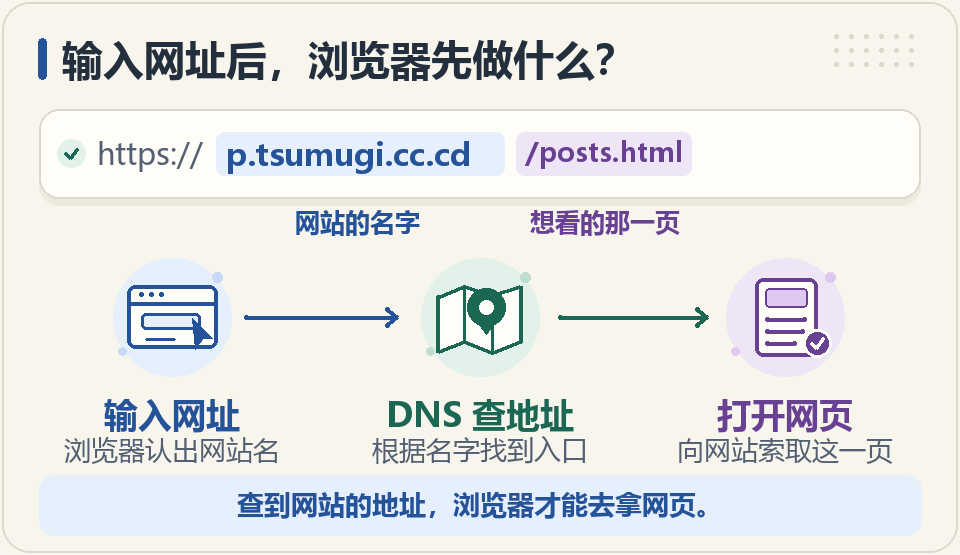
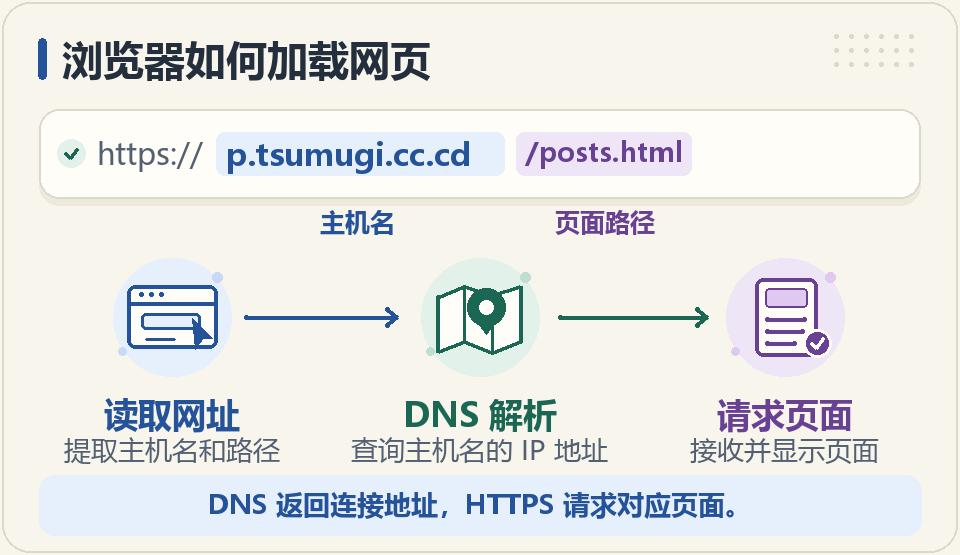
Publish blog post: cloudflare-blog-from-dns

diff --git a/posts/cloudflare-blog-from-dns.html b/posts/cloudflare-blog-from-dns.html
@@ -3,8 +3,8 @@
 <head>
   <meta charset="utf-8">
   <meta name="viewport" content="width=device-width, initial-scale=1">
-  <meta name="description" content="用我的个人博客讲清楚 DNS、GitHub Pages、Cloudflare Workers 与 D1，并记录从域名委派到部署动态网站的步骤。">
-  <title>建站学习日记：从 DNS 到 Cloudflare Workers + D1 | tsumugi.</title>
+  <meta name="description" content="面向首次建站的读者，解释域名解析、静态托管和服务端渲染，并演示如何用 GitHub Pages、Cloudflare Workers 与 D1 搭建个人博客。">
+  <title>个人博客搭建教程：从 DNS 到 Cloudflare Workers + D1 | tsumugi.</title>
   <link rel="stylesheet" href="/style.css?v=20261119-themes">
   <link rel="alternate" type="application/rss+xml" title="tsumugi 博客" href="/feed.xml">
   <link rel="icon" href="/favicon.png" type="image/png">
@@ -30,57 +30,57 @@
   <a class="back-link" href="/posts.html">← 全部文章</a>
   <header class="article-heading">
     <time class="post-date" datetime="2026-11-19">2026-11-19</time>
-    <h1 class="article-title">建站学习日记：从 DNS 到 Cloudflare Workers + D1</h1>
+    <h1 class="article-title">个人博客搭建教程：从 DNS 到 Cloudflare Workers + D1</h1>
   </header>
   <div class="reading-grid">
     <article class="reading-article">
       <div class="article-content">
-        <p>刚开始搭这个博客时，我想先弄明白一件事：拿到一个域名以后，网页该放在哪里，别人又是怎么找到它的？我先用 GitHub Pages 让一张网页上线，后来才加上 Cloudflare 和数据库。下面按我的建站顺序，把每一件事拆开说。</p>
-        <h2>输入网址，浏览器先去哪里找？</h2>
-        <p>以 <code>https://p.tsumugi.cc.cd/posts.html</code> 为例。<code>p.tsumugi.cc.cd</code> 是网站的名字，<code>/posts.html</code> 是我想看的那一页。就像去图书馆要先找地址，再去找书，浏览器也得先找到网站，再向它要页面。</p>
-        <p><strong>DNS 就是浏览器用来查地址的一套系统。</strong> 平时输入的是好记的名字，电脑连接网站时要用网络地址。查到地址以后，浏览器再用 HTTPS 建立连接，把想看的页面告诉网站。 <a href="https://www.cloudflare.com/learning/dns/what-is-dns/">DNS 查询的官方图解</a></p>
+        <p>搭建个人博客可以从一个 HTML 文件开始。先用 GitHub Pages 发布静态页面，再接入自定义域名。需要按关键词搜索正文或从数据库读取文章时，可以增加由 Cloudflare Workers 和 D1 提供的动态版本。两个版本可以使用同一域名下的不同地址。</p>
+        <h2>域名、DNS 与网页请求</h2>
+        <p>以 <code>https://p.tsumugi.cc.cd/posts.html</code> 为例，<code>p.tsumugi.cc.cd</code> 是主机名，<code>/posts.html</code> 是要访问的页面路径，<code>https</code> 指定了浏览器与网站通信的协议。</p>
+        <p><strong>DNS（域名系统）负责把主机名解析为浏览器可连接的 IP 地址。</strong> 浏览器取得地址后，建立 HTTPS 连接，再向网站请求 <code>/posts.html</code>。网站收到请求后，根据路径返回相应页面。DNS 查询使用主机名，页面路径随后由网站处理。 <a href="https://www.cloudflare.com/learning/dns/what-is-dns/">DNS 查询图解</a></p>
         <figure style="margin: 1.5em 0;">
-          <img src="/images/cloudflare-blog/dns-lookup.png" width="960" height="555" loading="lazy" decoding="async" alt="网址分成网站的名字 p.tsumugi.cc.cd 和想看的页面 /posts.html。浏览器先通过 DNS 查地址，再向网站索取页面。">
-          <figcaption>图 1　DNS 帮浏览器找到网站，网站负责把页面发回来。<a href="/images/cloudflare-blog/dns-lookup.png" aria-label="查看 DNS 解析插画大图">查看大图</a></figcaption>
+          <img src="/images/cloudflare-blog/dns-lookup.png?v=tutorial" width="960" height="555" loading="lazy" decoding="async" alt="浏览器读取网址中的主机名，通过 DNS 查到 IP 地址，再通过 HTTPS 请求指定路径的页面。">
+          <figcaption>图 1　DNS 解析先确定连接地址，HTTPS 请求再指定要访问的页面。<a href="/images/cloudflare-blog/dns-lookup.png?v=tutorial" aria-label="查看 DNS 解析插画大图">查看大图</a></figcaption>
         </figure>
-        <p>打开域名管理页面，会看到几种叫做「DNS 记录」的设置。我是这样记的：</p>
+        <p>在域名管理面板中，常用的 DNS 记录如下。</p>
         <ul>
-        <li><strong>A / AAAA</strong> 像写下门牌号码，分别填 IPv4 和 IPv6 两种网络地址。</li>
-        <li><strong>CNAME</strong> 像起个别名。查到这个别名时，会继续找它指向的那个名字的地址。</li>
-        <li><strong>TXT</strong> 是一张文字便条。比如 GitHub 可以让你贴上它给的文字，来确认你有权管理这个域名。</li>
-        <li><strong>NS</strong> 负责指路，告诉大家该去问哪几台服务器，才能拿到这个域名的正式答案。</li>
+        <li><strong>A / AAAA</strong> 将主机名分别指向 IPv4 或 IPv6 地址。</li>
+        <li><strong>CNAME</strong> 将一个主机名设为另一个主机名的别名。解析时会继续查询目标主机名。</li>
+        <li><strong>TXT</strong> 保存文本。GitHub Pages 可通过指定的 TXT 记录验证域名所有权。</li>
+        <li><strong>NS</strong> 指定哪些名称服务器负责回答某个域名的 DNS 查询。这些服务器称为该域名的权威 DNS 服务器。</li>
         </ul>
         <p><a href="https://developers.cloudflare.com/dns/manage-dns-records/reference/dns-record-types/">Cloudflare 的 DNS 记录说明</a></p>
-        <h2>先让一张网页上线</h2>
-        <p>拿到域名只是有了网站的名字，接下来还要给网页找个能放在网上的地方。我先在 GitHub 建了一个仓库，也就是存放项目文件的地方，再交给 <strong>GitHub Pages</strong> 把文件发布成网站。</p>
+        <h2>使用 GitHub Pages 发布静态站</h2>
+        <p>GitHub 仓库保存项目文件，GitHub Pages 负责将指定的文件发布为网站。这个阶段的页面在发布时已准备好，访问时由 Pages 直接返回，因此称为<strong>静态网站</strong>。</p>
         <ol>
-        <li>在自己的 GitHub 账号下建一个公开仓库，添加 <code>index.html</code>。打开网站首页时，GitHub Pages 会把它当作入口。第一次试可以只写一行 <code>&lt;h1&gt;你好，这是我的博客&lt;/h1&gt;</code>。</li>
-        <li>在仓库的 <strong>Settings → Pages</strong> 里选择 <strong>Deploy from a branch</strong>，选存放这个文件的分支。如果文件在仓库最外层，目录就选 <strong>/(root)</strong>，然后保存。</li>
-        <li>发布完成后，点 Pages 页面里的 <strong>Visit site</strong>。用 GitHub 给的地址就能先看到网页，自己的域名可以稍后再接。</li>
+        <li>在 GitHub 创建一个公开仓库，在仓库根目录新增 <code>index.html</code>。这个文件会作为首页，初次验证可以只放一个标题，例如 <code>&lt;h1&gt;个人博客首页&lt;/h1&gt;</code>。</li>
+        <li>在仓库的 <strong>Settings → Pages</strong> 中选择 <strong>Deploy from a branch</strong>，选中存放 <code>index.html</code> 的分支。如果文件位于仓库根目录，目录选择 <strong>/(root)</strong>，然后保存。</li>
+        <li>发布完成后，在 Pages 设置中点击 <strong>Visit site</strong>。先用 GitHub 提供的地址确认首页可以打开，再配置自定义域名。</li>
         </ol>
-        <p>这个阶段的博客是<strong>静态站</strong>。写好的网页文件已经放在 GitHub Pages 上，有人来访问时，Pages 就把文件交给对方。 <a href="https://docs.github.com/en/pages/getting-started-with-github-pages/creating-a-github-pages-site">GitHub Pages 建站步骤</a></p>
-        <h2>把 DNS 交给 Cloudflare 管</h2>
-        <p>我是从 DNSHE 拿到 <code>tsumugi.cc.cd</code> 这个免费子域名的。后来我让 Cloudflare 帮忙回答这个域名的 DNS 查询。这一步叫<strong>修改 NS 委派</strong>，意思是把「这个域名去哪里查」换成 Cloudflare 给出的服务器。网页还是可以放在 GitHub Pages。</p>
+        <p><a href="https://docs.github.com/en/pages/getting-started-with-github-pages/creating-a-github-pages-site">GitHub Pages 建站步骤</a></p>
+        <h2>将域名接入 Cloudflare DNS</h2>
+        <p>本博客使用 DNSHE 提供的免费子域名 <code>tsumugi.cc.cd</code>，并将这个域名的 DNS 查询委派给 Cloudflare。<strong>NS 委派</strong>决定由谁提供 DNS 记录。域名平台负责维持委派，Cloudflare 根据记录提供解析结果，网页仍可由 GitHub Pages 托管。</p>
         <ol>
-        <li><strong>在 Cloudflare 添加自己的域名。</strong> 如果已经有网站或域名邮箱，先在 Cloudflare 把仍在用的 DNS 记录准备好。</li>
-        <li><strong>把 Cloudflare 分配的名称服务器填回域名平台。</strong> 我的入口在 DNSHE。你用的是自己购买的域名，就到注册商那里找「名称服务器」。如果拿的是免费子域名，要看平台是否支持把它委派出去，以及 Cloudflare 是否支持添加该域名。</li>
-        <li><strong>等 Cloudflare 显示 Active（已激活）。</strong> 之后，这个域名的 DNS 记录就在 Cloudflare 里改。DNS 的旧回答可能在不同网络上缓存一段时间，所以新设置未必同时生效。</li>
+        <li><strong>在 Cloudflare 添加域名。</strong> 如果已有网站或域名邮箱，先核对现用的 DNS 记录，将仍需使用的记录配置到 Cloudflare。</li>
+        <li><strong>在域名平台更新名称服务器。</strong> 将 Cloudflare 分配的名称服务器填入注册商或上级域名提供方的管理面板。使用免费子域名时，域名提供方需支持 NS 委派，Cloudflare 也需支持添加该域名。</li>
+        <li><strong>等待区域激活。</strong> Cloudflare 显示 <strong>Active</strong> 后，在 Cloudflare 管理该域名的 DNS 记录。各地解析器的缓存过期时间可能不同，因此旧记录还可能被使用一段时间。</li>
         </ol>
-        <p>如果想给静态站也用自己的域名，可以先用 GitHub 提供的 TXT 记录验证所有权，然后在 Pages 设置里填自定义域名，最后按 GitHub 的说明添加对应的访问记录。我把主站的记录保留给 GitHub Pages，另外用一个带 <code>p.</code> 的名字测试动态版。 <a href="https://developers.cloudflare.com/dns/zone-setups/full-setup/setup/">Cloudflare 接管 DNS</a> · <a href="https://docs.github.com/en/pages/configuring-a-custom-domain-for-your-github-pages-site/managing-a-custom-domain-for-your-github-pages-site">GitHub Pages 自定义域名</a></p>
-        <h2>让博客从数据库里取文章</h2>
-        <p>静态站已经能读文章了。后来我想让博客按关键词查正文，就加了两样东西。<strong>Worker</strong> 是 Cloudflare 帮我运行的一小段后端程序，负责接收访问和组织回复。<strong>D1</strong> 是放文章的数据库。可以把我的文章表想成一张表格，每一行存一篇文章的标题、日期和正文。接上以后，读者打开一篇文章，Worker 就去 D1 找到正文，再拼成网页发回去。</p>
+        <p>为 GitHub Pages 绑定自定义域名时，先添加 GitHub 提供的 TXT 验证记录，再到 Pages 设置中填写自定义域名，最后按 GitHub 的说明添加用于访问的 DNS 记录。本博客将主域名配置给 GitHub Pages，并使用另一个子域名测试动态版本。 <a href="https://developers.cloudflare.com/dns/zone-setups/full-setup/setup/">Cloudflare 接管 DNS</a> · <a href="https://docs.github.com/en/pages/configuring-a-custom-domain-for-your-github-pages-site/managing-a-custom-domain-for-your-github-pages-site">GitHub Pages 自定义域名</a></p>
+        <h2>部署 Worker 并绑定 D1</h2>
+        <p><strong>Worker</strong> 是运行在 Cloudflare 上的后端程序，负责处理浏览器的请求。<strong>D1</strong> 是数据库，可以把文章数据组织成一张表，每行对应一篇文章，包含标题、日期和正文。读者访问动态站时，Worker 根据请求查询 D1，可用查到的内容生成页面或返回搜索结果。</p>
         <ol>
-        <li><strong>先让 Worker 跑起来。</strong> 在 Cloudflare 的 <strong>Workers &amp; Pages</strong> 选 <strong>Create application</strong>，从一个简单模板开始。点 <strong>Deploy</strong>，也就是把程序放到 Cloudflare 上运行。用它给的 <code>workers.dev</code> 地址，先确认浏览器能打开。</li>
-        <li><strong>准备一个 D1 数据库。</strong> 在 Cloudflare 的 <strong>D1 SQL database</strong> 创建数据库。第一次可以只放一个标题，方便确认程序真的能读到它。</li>
-        <li><strong>把 Worker 和 D1 连起来。</strong> 打开 Worker 的 <strong>Bindings → Add binding</strong>，选 <strong>D1 database</strong> 和刚建好的数据库，把变量名设为 <code>DB</code>。这一步也叫「绑定」：Worker 之后用 <code>env.DB</code> 就能访问这个数据库。</li>
+        <li><strong>创建并部署 Worker。</strong> 在 Cloudflare 的 <strong>Workers &amp; Pages</strong> 中选择 <strong>Create application</strong>，从简单模板开始。点击 <strong>Deploy</strong> 后，用 Cloudflare 提供的 <code>workers.dev</code> 地址确认程序可以访问。</li>
+        <li><strong>创建 D1 数据库。</strong> 在 Cloudflare 的 <strong>D1 SQL database</strong> 中创建数据库。验证连接时，先插入一行示例数据即可。</li>
+        <li><strong>添加 D1 绑定。</strong> 打开 Worker 的 <strong>Bindings → Add binding</strong>，选择 <strong>D1 database</strong> 和刚建好的数据库，将变量名设为 <code>DB</code>。绑定为 Worker 提供数据库访问接口，代码可以通过 <code>env.DB</code> 发起查询。</li>
         </ol>
         <p><a href="https://developers.cloudflare.com/workers/get-started/dashboard/">在控制台创建 Worker</a> · <a href="https://developers.cloudflare.com/d1/get-started/">D1 入门步骤</a></p>
         <details>
-          <summary>动手试一下，让 Worker 读出一篇文章的标题</summary>
-          <p>打开刚建好的练习数据库，在 <strong>Console</strong> 执行下面两行。SQL 是和数据库说话的语言，第一行建表，第二行放入一个标题。</p>
+          <summary>练习：从 D1 读取一篇文章的标题</summary>
+          <p>打开练习数据库，在 <strong>Console</strong> 执行两条 SQL 语句。SQL 用于操作数据库。第一条创建文章表，第二条插入一行示例数据。</p>
           <pre><code>CREATE TABLE posts (id INTEGER PRIMARY KEY, title TEXT);
         INSERT INTO posts (id, title) VALUES (1, '我的第一篇博客');</code></pre>
-          <p>在练习用 Worker 的代码编辑器里使用下面这段代码，再点 <strong>Deploy</strong>。<code>SELECT</code> 的意思是「取出数据」。打开测试地址，应该会看到「我的第一篇博客」。</p>
+          <p>在练习用 Worker 的代码编辑器中输入以下代码，点击 <strong>Deploy</strong>。<code>SELECT</code> 按文章编号查询标题，浏览器会收到纯文本「我的第一篇博客」。</p>
           <pre><code>export default {
           async fetch(request, env) {
             const post = await env.DB
@@ -92,25 +92,24 @@
           },
         };</code></pre>
         </details>
-        <h2>给动态版加一个自己的地址</h2>
-        <p>在 <code>workers.dev</code> 上确认 Worker 能打开后，我给它绑了 <code>p.tsumugi.cc.cd</code>。操作入口在 Worker 的 <strong>Settings → Domains &amp; Routes → Add → Custom Domain</strong>。域名在 Cloudflare 激活后，就能在这里填一个可用的子域名。Cloudflare 会创建对应记录，并办好 HTTPS 证书。 <a href="https://developers.cloudflare.com/workers/configuration/routing/custom-domains/">给 Worker 绑定自定义域名</a></p>
+        <h2>为动态站绑定自定义域名</h2>
+        <p>确认 <code>workers.dev</code> 地址可用后，在 Worker 的 <strong>Settings → Domains &amp; Routes → Add → Custom Domain</strong> 中输入要绑定的子域名。该子域名应位于已激活的 Cloudflare 区域内，并且没有冲突的 DNS 记录。绑定后，Cloudflare 会创建对应的 DNS 记录并签发 HTTPS 证书。 <a href="https://developers.cloudflare.com/workers/configuration/routing/custom-domains/">给 Worker 绑定自定义域名</a></p>
         <figure style="margin: 1.5em 0;">
-          <img src="/images/cloudflare-blog/request-paths.png" width="960" height="592" loading="lazy" decoding="async" alt="tsumugi.cc.cd 由 GitHub Pages 交付写好的网页；p.tsumugi.cc.cd 由 Worker 查询 D1，再拼成网页。Cloudflare 管理这两个名字的 DNS 记录。">
-          <figcaption>图 2　现在主站继续走 GitHub Pages，带 <code>p.</code> 的地址打开 Worker 版。<a href="/images/cloudflare-blog/request-paths.png" aria-label="查看两个网站入口的插画大图">查看大图</a></figcaption>
+          <img src="/images/cloudflare-blog/request-paths.png?v=tutorial" width="960" height="592" loading="lazy" decoding="async" alt="主站由 GitHub Pages 返回预先发布的 HTML，动态站的 Worker 查询 D1，再生成 HTML。两个主机名的 DNS 记录都由 Cloudflare 管理。">
+          <figcaption>图 2　<code>tsumugi.cc.cd</code> 由 GitHub Pages 提供页面，<code>p.tsumugi.cc.cd</code> 由 Worker 处理请求。<a href="/images/cloudflare-blog/request-paths.png?v=tutorial" aria-label="查看两个网站入口的插画大图">查看大图</a></figcaption>
         </figure>
-        <p>我以前还问过，既然正文存在 D1，为什么「查看网页源码」还是能看到全部文字？后来发现，我看到的是 Worker 已经拼好的网页。查数据库这一步早在网页送到浏览器之前就完成了。这个做法叫<strong>服务端渲染</strong>。</p>
-        <h2>以后写新文章，要更新哪里？</h2>
-        <p>我的博客现在有两份。主站读 GitHub 仓库里的网页文件，把改动提交并推送到 GitHub，Pages 就会发布新版。动态版用 <strong>Wrangler</strong> 把后端代码上传到 Cloudflare，再用 SQL 把新文章写入 D1。Wrangler 可以理解成 Cloudflare 提供的上传工具。如果只改动态版的正文，更新 D1 就够了。</p>
+        <p>在这个动态站中，Worker 收到请求后先查询正文，再将正文填入 HTML 并返回给浏览器。这一过程称为<strong>服务端渲染</strong>。浏览器收到的是包含正文的完整 HTML，所以「查看网页源码」仍能看到文章文字。</p>
+        <h2>发布与更新文章</h2>
+        <p>GitHub Pages 根据仓库中的 HTML 文件发布静态页面。Cloudflare <strong>Wrangler</strong> 命令行工具负责部署 Worker 代码和资源。动态站的文章数据通过 SQL 写入 D1。只更新动态站正文时，可以直接更新 D1 中的文章记录。</p>
         <figure style="margin: 1.5em 0;">
-          <img src="/images/cloudflare-blog/publish-paths.png" width="960" height="558" loading="lazy" decoding="async" alt="修改静态网页时推到 GitHub 交给 Pages 发布，修改后端时用 Wrangler 上传到 Worker，写动态文章时把新内容写进 D1。">
-          <figcaption>图 3　修改的是网页、后端代码还是文章内容，决定了要把它发到哪里。<a href="/images/cloudflare-blog/publish-paths.png" aria-label="查看博客内容发布插画大图">查看大图</a></figcaption>
+          <img src="/images/cloudflare-blog/publish-paths.png?v=tutorial" width="960" height="558" loading="lazy" decoding="async" alt="静态页面通过 GitHub Pages 发布，Worker 代码通过 Wrangler 部署，动态站的文章内容写入 D1。">
+          <figcaption>图 3　静态页面、Worker 代码和文章数据各有对应的发布位置。<a href="/images/cloudflare-blog/publish-paths.png?v=tutorial" aria-label="查看博客内容发布插画大图">查看大图</a></figcaption>
         </figure>
-        <p>后来我又写了一个发文脚本。现在只要用 Markdown 写一份稿子，就能预览文章，再用一条命令更新主站和动态版。脚本会替我做图里的发布操作，也会自动更新首页的文章列表和 RSS 订阅。</p>
-        <p>如果我从零再做一次，还是会先放一个 <code>index.html</code>，用平台给的测试地址把它打开，再配自己的域名。等我真的想让网页搜文章、读数据时，再接上 Worker 和 D1。这样每做完一步，都能打开一个页面看看自己刚完成了什么。</p>
+        <p>两站共用文章时，可以用 Markdown（一种纯文本写作格式）维护一份稿件。本文示例项目提供本地发文脚本，可预览文章，并将同一份稿件发布到 GitHub Pages 和 Worker，同时更新首页、文章归档和 RSS 订阅。 <a href="https://github.com/MushokuK1ka/MushokuK1ka.github.io/blob/agent/five-switchable-themes/README.md">项目的发文操作说明</a></p>
       </div>
       <nav class="article-actions" aria-label="文章分享">
         <button class="button button-outline" type="button" data-copy-link hidden>复制链接</button>
-        <a class="button button-outline" data-share-email href="mailto:?subject=%E5%BB%BA%E7%AB%99%E5%AD%A6%E4%B9%A0%E6%97%A5%E8%AE%B0%EF%BC%9A%E4%BB%8E%20DNS%20%E5%88%B0%20Cloudflare%20Workers%20%2B%20D1&amp;body=https%3A%2F%2Ftsumugi.cc.cd%2Fposts%2Fcloudflare-blog-from-dns.html">邮件分享</a>
+        <a class="button button-outline" data-share-email href="mailto:?subject=%E4%B8%AA%E4%BA%BA%E5%8D%9A%E5%AE%A2%E6%90%AD%E5%BB%BA%E6%95%99%E7%A8%8B%EF%BC%9A%E4%BB%8E%20DNS%20%E5%88%B0%20Cloudflare%20Workers%20%2B%20D1&amp;body=https%3A%2F%2Ftsumugi.cc.cd%2Fposts%2Fcloudflare-blog-from-dns.html">邮件分享</a>
         <a class="button button-link top-link" href="#top">返回顶部 ↑</a>
       </nav>
       <p class="sr-only" data-copy-status role="status"></p>

diff --git a/index.html b/index.html
@@ -37,7 +37,7 @@
   <section class="latest" aria-labelledby="latest-title">
     <div class="section-heading"><h2 id="latest-title">最新文章</h2><a href="/posts.html">全部文章 <span aria-hidden="true">→</span></a></div>
     <ul class="post-list" data-post-list>
-    <li class="post-row"><a href="/posts/cloudflare-blog-from-dns.html"><time datetime="2026-11-19">2026-11-19</time><span class="post-row-title">建站学习日记：从 DNS 到 Cloudflare Workers + D1</span><span class="post-row-arrow" aria-hidden="true">↗</span></a></li>
+    <li class="post-row"><a href="/posts/cloudflare-blog-from-dns.html"><time datetime="2026-11-19">2026-11-19</time><span class="post-row-title">个人博客搭建教程：从 DNS 到 Cloudflare Workers + D1</span><span class="post-row-arrow" aria-hidden="true">↗</span></a></li>
     <li class="post-row"><a href="/posts/legion-r9000p-keyboard-power-saving.html"><time datetime="2026-08-22">2026-08-22</time><span class="post-row-title">拯救者 R9000P 内置键盘间歇性失灵：可能只是被 Windows“省电断电”了</span><span class="post-row-arrow" aria-hidden="true">↗</span></a></li>
     <li class="post-row"><a href="/posts/skyworth-e900v22d-adb.html"><time datetime="2026-08-16">2026-08-16</time><span class="post-row-title">创维E900V22D通过ADB安装第三方软件</span><span class="post-row-arrow" aria-hidden="true">↗</span></a></li>
     <li class="post-row"><a href="/posts/second-post.html"><time datetime="2026-06-10">2026-06-10</time><span class="post-row-title">第二篇博客：学习HTML和CSS</span><span class="post-row-arrow" aria-hidden="true">↗</span></a></li>

diff --git a/posts.html b/posts.html
@@ -35,7 +35,7 @@
   </form>
   <p class="search-summary" data-search-summary role="status" hidden></p>
   <ul class="post-list" data-post-list>
-    <li class="post-row"><a href="/posts/cloudflare-blog-from-dns.html"><time datetime="2026-11-19">2026-11-19</time><span class="post-row-title">建站学习日记：从 DNS 到 Cloudflare Workers + D1</span><span class="post-row-arrow" aria-hidden="true">↗</span></a></li>
+    <li class="post-row"><a href="/posts/cloudflare-blog-from-dns.html"><time datetime="2026-11-19">2026-11-19</time><span class="post-row-title">个人博客搭建教程：从 DNS 到 Cloudflare Workers + D1</span><span class="post-row-arrow" aria-hidden="true">↗</span></a></li>
     <li class="post-row"><a href="/posts/legion-r9000p-keyboard-power-saving.html"><time datetime="2026-08-22">2026-08-22</time><span class="post-row-title">拯救者 R9000P 内置键盘间歇性失灵：可能只是被 Windows“省电断电”了</span><span class="post-row-arrow" aria-hidden="true">↗</span></a></li>
     <li class="post-row"><a href="/posts/skyworth-e900v22d-adb.html"><time datetime="2026-08-16">2026-08-16</time><span class="post-row-title">创维E900V22D通过ADB安装第三方软件</span><span class="post-row-arrow" aria-hidden="true">↗</span></a></li>
     <li class="post-row"><a href="/posts/second-post.html"><time datetime="2026-06-10">2026-06-10</time><span class="post-row-title">第二篇博客：学习HTML和CSS</span><span class="post-row-arrow" aria-hidden="true">↗</span></a></li>

diff --git a/content/posts/cloudflare-blog-from-dns.md b/content/posts/cloudflare-blog-from-dns.md
@@ -1,68 +1,67 @@
 ---
-title: "建站学习日记：从 DNS 到 Cloudflare Workers + D1"
+title: "个人博客搭建教程：从 DNS 到 Cloudflare Workers + D1"
 date: "2026-11-19"
-description: "用我的个人博客讲清楚 DNS、GitHub Pages、Cloudflare Workers 与 D1，并记录从域名委派到部署动态网站的步骤。"
+description: "面向首次建站的读者，解释域名解析、静态托管和服务端渲染，并演示如何用 GitHub Pages、Cloudflare Workers 与 D1 搭建个人博客。"
 ---
 
-刚开始搭这个博客时，我想先弄明白一件事：拿到一个域名以后，网页该放在哪里，别人又是怎么找到它的？我先用 GitHub Pages 让一张网页上线，后来才加上 Cloudflare 和数据库。下面按我的建站顺序，把每一件事拆开说。
+搭建个人博客可以从一个 HTML 文件开始。先用 GitHub Pages 发布静态页面，再接入自定义域名。需要按关键词搜索正文或从数据库读取文章时，可以增加由 Cloudflare Workers 和 D1 提供的动态版本。两个版本可以使用同一域名下的不同地址。
 
-## 输入网址，浏览器先去哪里找？
+## 域名、DNS 与网页请求
 
-以 `https://p.tsumugi.cc.cd/posts.html` 为例。`p.tsumugi.cc.cd` 是网站的名字，`/posts.html` 是我想看的那一页。就像去图书馆要先找地址，再去找书，浏览器也得先找到网站，再向它要页面。
+以 `https://p.tsumugi.cc.cd/posts.html` 为例，`p.tsumugi.cc.cd` 是主机名，`/posts.html` 是要访问的页面路径，`https` 指定了浏览器与网站通信的协议。
 
-**DNS 就是浏览器用来查地址的一套系统。** 平时输入的是好记的名字，电脑连接网站时要用网络地址。查到地址以后，浏览器再用 HTTPS 建立连接，把想看的页面告诉网站。 [DNS 查询的官方图解](https://www.cloudflare.com/learning/dns/what-is-dns/)
+**DNS（域名系统）负责把主机名解析为浏览器可连接的 IP 地址。** 浏览器取得地址后，建立 HTTPS 连接，再向网站请求 `/posts.html`。网站收到请求后，根据路径返回相应页面。DNS 查询使用主机名，页面路径随后由网站处理。 [DNS 查询图解](https://www.cloudflare.com/learning/dns/what-is-dns/)
 
 <figure style="margin: 1.5em 0;">
-  <img src="/images/cloudflare-blog/dns-lookup.png" width="960" height="555" loading="lazy" decoding="async" alt="网址分成网站的名字 p.tsumugi.cc.cd 和想看的页面 /posts.html。浏览器先通过 DNS 查地址，再向网站索取页面。">
-  <figcaption>图 1　DNS 帮浏览器找到网站，网站负责把页面发回来。<a href="/images/cloudflare-blog/dns-lookup.png" aria-label="查看 DNS 解析插画大图">查看大图</a></figcaption>
+  <img src="/images/cloudflare-blog/dns-lookup.png?v=tutorial" width="960" height="555" loading="lazy" decoding="async" alt="浏览器读取网址中的主机名，通过 DNS 查到 IP 地址，再通过 HTTPS 请求指定路径的页面。">
+  <figcaption>图 1　DNS 解析先确定连接地址，HTTPS 请求再指定要访问的页面。<a href="/images/cloudflare-blog/dns-lookup.png?v=tutorial" aria-label="查看 DNS 解析插画大图">查看大图</a></figcaption>
 </figure>
 
+在域名管理面板中，常用的 DNS 记录如下。
 
-打开域名管理页面，会看到几种叫做「DNS 记录」的设置。我是这样记的：
-
-- **A / AAAA** 像写下门牌号码，分别填 IPv4 和 IPv6 两种网络地址。
-- **CNAME** 像起个别名。查到这个别名时，会继续找它指向的那个名字的地址。
-- **TXT** 是一张文字便条。比如 GitHub 可以让你贴上它给的文字，来确认你有权管理这个域名。
-- **NS** 负责指路，告诉大家该去问哪几台服务器，才能拿到这个域名的正式答案。
+- **A / AAAA** 将主机名分别指向 IPv4 或 IPv6 地址。
+- **CNAME** 将一个主机名设为另一个主机名的别名。解析时会继续查询目标主机名。
+- **TXT** 保存文本。GitHub Pages 可通过指定的 TXT 记录验证域名所有权。
+- **NS** 指定哪些名称服务器负责回答某个域名的 DNS 查询。这些服务器称为该域名的权威 DNS 服务器。
 
 [Cloudflare 的 DNS 记录说明](https://developers.cloudflare.com/dns/manage-dns-records/reference/dns-record-types/)
 
-## 先让一张网页上线
+## 使用 GitHub Pages 发布静态站
 
-拿到域名只是有了网站的名字，接下来还要给网页找个能放在网上的地方。我先在 GitHub 建了一个仓库，也就是存放项目文件的地方，再交给 **GitHub Pages** 把文件发布成网站。
+GitHub 仓库保存项目文件，GitHub Pages 负责将指定的文件发布为网站。这个阶段的页面在发布时已准备好，访问时由 Pages 直接返回，因此称为**静态网站**。
 
-1. 在自己的 GitHub 账号下建一个公开仓库，添加 `index.html`。打开网站首页时，GitHub Pages 会把它当作入口。第一次试可以只写一行 `<h1>你好，这是我的博客</h1>`。
-2. 在仓库的 **Settings → Pages** 里选择 **Deploy from a branch**，选存放这个文件的分支。如果文件在仓库最外层，目录就选 **/(root)**，然后保存。
-3. 发布完成后，点 Pages 页面里的 **Visit site**。用 GitHub 给的地址就能先看到网页，自己的域名可以稍后再接。
+1. 在 GitHub 创建一个公开仓库，在仓库根目录新增 `index.html`。这个文件会作为首页，初次验证可以只放一个标题，例如 `<h1>个人博客首页</h1>`。
+2. 在仓库的 **Settings → Pages** 中选择 **Deploy from a branch**，选中存放 `index.html` 的分支。如果文件位于仓库根目录，目录选择 **/(root)**，然后保存。
+3. 发布完成后，在 Pages 设置中点击 **Visit site**。先用 GitHub 提供的地址确认首页可以打开，再配置自定义域名。
 
-这个阶段的博客是**静态站**。写好的网页文件已经放在 GitHub Pages 上，有人来访问时，Pages 就把文件交给对方。 [GitHub Pages 建站步骤](https://docs.github.com/en/pages/getting-started-with-github-pages/creating-a-github-pages-site)
+[GitHub Pages 建站步骤](https://docs.github.com/en/pages/getting-started-with-github-pages/creating-a-github-pages-site)
 
-## 把 DNS 交给 Cloudflare 管
+## 将域名接入 Cloudflare DNS
 
-我是从 DNSHE 拿到 `tsumugi.cc.cd` 这个免费子域名的。后来我让 Cloudflare 帮忙回答这个域名的 DNS 查询。这一步叫**修改 NS 委派**，意思是把「这个域名去哪里查」换成 Cloudflare 给出的服务器。网页还是可以放在 GitHub Pages。
+本博客使用 DNSHE 提供的免费子域名 `tsumugi.cc.cd`，并将这个域名的 DNS 查询委派给 Cloudflare。**NS 委派**决定由谁提供 DNS 记录。域名平台负责维持委派，Cloudflare 根据记录提供解析结果，网页仍可由 GitHub Pages 托管。
 
-1. **在 Cloudflare 添加自己的域名。** 如果已经有网站或域名邮箱，先在 Cloudflare 把仍在用的 DNS 记录准备好。
-2. **把 Cloudflare 分配的名称服务器填回域名平台。** 我的入口在 DNSHE。你用的是自己购买的域名，就到注册商那里找「名称服务器」。如果拿的是免费子域名，要看平台是否支持把它委派出去，以及 Cloudflare 是否支持添加该域名。
-3. **等 Cloudflare 显示 Active（已激活）。** 之后，这个域名的 DNS 记录就在 Cloudflare 里改。DNS 的旧回答可能在不同网络上缓存一段时间，所以新设置未必同时生效。
+1. **在 Cloudflare 添加域名。** 如果已有网站或域名邮箱，先核对现用的 DNS 记录，将仍需使用的记录配置到 Cloudflare。
+2. **在域名平台更新名称服务器。** 将 Cloudflare 分配的名称服务器填入注册商或上级域名提供方的管理面板。使用免费子域名时，域名提供方需支持 NS 委派，Cloudflare 也需支持添加该域名。
+3. **等待区域激活。** Cloudflare 显示 **Active** 后，在 Cloudflare 管理该域名的 DNS 记录。各地解析器的缓存过期时间可能不同，因此旧记录还可能被使用一段时间。
 
-如果想给静态站也用自己的域名，可以先用 GitHub 提供的 TXT 记录验证所有权，然后在 Pages 设置里填自定义域名，最后按 GitHub 的说明添加对应的访问记录。我把主站的记录保留给 GitHub Pages，另外用一个带 `p.` 的名字测试动态版。 [Cloudflare 接管 DNS](https://developers.cloudflare.com/dns/zone-setups/full-setup/setup/) · [GitHub Pages 自定义域名](https://docs.github.com/en/pages/configuring-a-custom-domain-for-your-github-pages-site/managing-a-custom-domain-for-your-github-pages-site)
+为 GitHub Pages 绑定自定义域名时，先添加 GitHub 提供的 TXT 验证记录，再到 Pages 设置中填写自定义域名，最后按 GitHub 的说明添加用于访问的 DNS 记录。本博客将主域名配置给 GitHub Pages，并使用另一个子域名测试动态版本。 [Cloudflare 接管 DNS](https://developers.cloudflare.com/dns/zone-setups/full-setup/setup/) · [GitHub Pages 自定义域名](https://docs.github.com/en/pages/configuring-a-custom-domain-for-your-github-pages-site/managing-a-custom-domain-for-your-github-pages-site)
 
-## 让博客从数据库里取文章
+## 部署 Worker 并绑定 D1
 
-静态站已经能读文章了。后来我想让博客按关键词查正文，就加了两样东西。**Worker** 是 Cloudflare 帮我运行的一小段后端程序，负责接收访问和组织回复。**D1** 是放文章的数据库。可以把我的文章表想成一张表格，每一行存一篇文章的标题、日期和正文。接上以后，读者打开一篇文章，Worker 就去 D1 找到正文，再拼成网页发回去。
+**Worker** 是运行在 Cloudflare 上的后端程序，负责处理浏览器的请求。**D1** 是数据库，可以把文章数据组织成一张表，每行对应一篇文章，包含标题、日期和正文。读者访问动态站时，Worker 根据请求查询 D1，可用查到的内容生成页面或返回搜索结果。
 
-1. **先让 Worker 跑起来。** 在 Cloudflare 的 **Workers & Pages** 选 **Create application**，从一个简单模板开始。点 **Deploy**，也就是把程序放到 Cloudflare 上运行。用它给的 `workers.dev` 地址，先确认浏览器能打开。
-2. **准备一个 D1 数据库。** 在 Cloudflare 的 **D1 SQL database** 创建数据库。第一次可以只放一个标题，方便确认程序真的能读到它。
-3. **把 Worker 和 D1 连起来。** 打开 Worker 的 **Bindings → Add binding**，选 **D1 database** 和刚建好的数据库，把变量名设为 `DB`。这一步也叫「绑定」：Worker 之后用 `env.DB` 就能访问这个数据库。
+1. **创建并部署 Worker。** 在 Cloudflare 的 **Workers & Pages** 中选择 **Create application**，从简单模板开始。点击 **Deploy** 后，用 Cloudflare 提供的 `workers.dev` 地址确认程序可以访问。
+2. **创建 D1 数据库。** 在 Cloudflare 的 **D1 SQL database** 中创建数据库。验证连接时，先插入一行示例数据即可。
+3. **添加 D1 绑定。** 打开 Worker 的 **Bindings → Add binding**，选择 **D1 database** 和刚建好的数据库，将变量名设为 `DB`。绑定为 Worker 提供数据库访问接口，代码可以通过 `env.DB` 发起查询。
 
 [在控制台创建 Worker](https://developers.cloudflare.com/workers/get-started/dashboard/) · [D1 入门步骤](https://developers.cloudflare.com/d1/get-started/)
 
 <details>
-  <summary>动手试一下，让 Worker 读出一篇文章的标题</summary>
-  <p>打开刚建好的练习数据库，在 <strong>Console</strong> 执行下面两行。SQL 是和数据库说话的语言，第一行建表，第二行放入一个标题。</p>
+  <summary>练习：从 D1 读取一篇文章的标题</summary>
+  <p>打开练习数据库，在 <strong>Console</strong> 执行两条 SQL 语句。SQL 用于操作数据库。第一条创建文章表，第二条插入一行示例数据。</p>
   <pre><code>CREATE TABLE posts (id INTEGER PRIMARY KEY, title TEXT);
 INSERT INTO posts (id, title) VALUES (1, '我的第一篇博客');</code></pre>
-  <p>在练习用 Worker 的代码编辑器里使用下面这段代码，再点 <strong>Deploy</strong>。<code>SELECT</code> 的意思是「取出数据」。打开测试地址，应该会看到「我的第一篇博客」。</p>
+  <p>在练习用 Worker 的代码编辑器中输入以下代码，点击 <strong>Deploy</strong>。<code>SELECT</code> 按文章编号查询标题，浏览器会收到纯文本「我的第一篇博客」。</p>
   <pre><code>export default {
   async fetch(request, env) {
     const post = await env.DB
@@ -75,30 +74,24 @@ INSERT INTO posts (id, title) VALUES (1, '我的第一篇博客');</code></pre>
 };</code></pre>
 </details>
 
+## 为动态站绑定自定义域名
 
-
-## 给动态版加一个自己的地址
-
-在 `workers.dev` 上确认 Worker 能打开后，我给它绑了 `p.tsumugi.cc.cd`。操作入口在 Worker 的 **Settings → Domains & Routes → Add → Custom Domain**。域名在 Cloudflare 激活后，就能在这里填一个可用的子域名。Cloudflare 会创建对应记录，并办好 HTTPS 证书。 [给 Worker 绑定自定义域名](https://developers.cloudflare.com/workers/configuration/routing/custom-domains/)
+确认 `workers.dev` 地址可用后，在 Worker 的 **Settings → Domains & Routes → Add → Custom Domain** 中输入要绑定的子域名。该子域名应位于已激活的 Cloudflare 区域内，并且没有冲突的 DNS 记录。绑定后，Cloudflare 会创建对应的 DNS 记录并签发 HTTPS 证书。 [给 Worker 绑定自定义域名](https://developers.cloudflare.com/workers/configuration/routing/custom-domains/)
 
 <figure style="margin: 1.5em 0;">
-  <img src="/images/cloudflare-blog/request-paths.png" width="960" height="592" loading="lazy" decoding="async" alt="tsumugi.cc.cd 由 GitHub Pages 交付写好的网页；p.tsumugi.cc.cd 由 Worker 查询 D1，再拼成网页。Cloudflare 管理这两个名字的 DNS 记录。">
-  <figcaption>图 2　现在主站继续走 GitHub Pages，带 <code>p.</code> 的地址打开 Worker 版。<a href="/images/cloudflare-blog/request-paths.png" aria-label="查看两个网站入口的插画大图">查看大图</a></figcaption>
+  <img src="/images/cloudflare-blog/request-paths.png?v=tutorial" width="960" height="592" loading="lazy" decoding="async" alt="主站由 GitHub Pages 返回预先发布的 HTML，动态站的 Worker 查询 D1，再生成 HTML。两个主机名的 DNS 记录都由 Cloudflare 管理。">
+  <figcaption>图 2　<code>tsumugi.cc.cd</code> 由 GitHub Pages 提供页面，<code>p.tsumugi.cc.cd</code> 由 Worker 处理请求。<a href="/images/cloudflare-blog/request-paths.png?v=tutorial" aria-label="查看两个网站入口的插画大图">查看大图</a></figcaption>
 </figure>
 
+在这个动态站中，Worker 收到请求后先查询正文，再将正文填入 HTML 并返回给浏览器。这一过程称为**服务端渲染**。浏览器收到的是包含正文的完整 HTML，所以「查看网页源码」仍能看到文章文字。
 
-我以前还问过，既然正文存在 D1，为什么「查看网页源码」还是能看到全部文字？后来发现，我看到的是 Worker 已经拼好的网页。查数据库这一步早在网页送到浏览器之前就完成了。这个做法叫**服务端渲染**。
+## 发布与更新文章
 
-## 以后写新文章，要更新哪里？
-
-我的博客现在有两份。主站读 GitHub 仓库里的网页文件，把改动提交并推送到 GitHub，Pages 就会发布新版。动态版用 **Wrangler** 把后端代码上传到 Cloudflare，再用 SQL 把新文章写入 D1。Wrangler 可以理解成 Cloudflare 提供的上传工具。如果只改动态版的正文，更新 D1 就够了。
+GitHub Pages 根据仓库中的 HTML 文件发布静态页面。Cloudflare **Wrangler** 命令行工具负责部署 Worker 代码和资源。动态站的文章数据通过 SQL 写入 D1。只更新动态站正文时，可以直接更新 D1 中的文章记录。
 
 <figure style="margin: 1.5em 0;">
-  <img src="/images/cloudflare-blog/publish-paths.png" width="960" height="558" loading="lazy" decoding="async" alt="修改静态网页时推到 GitHub 交给 Pages 发布，修改后端时用 Wrangler 上传到 Worker，写动态文章时把新内容写进 D1。">
-  <figcaption>图 3　修改的是网页、后端代码还是文章内容，决定了要把它发到哪里。<a href="/images/cloudflare-blog/publish-paths.png" aria-label="查看博客内容发布插画大图">查看大图</a></figcaption>
+  <img src="/images/cloudflare-blog/publish-paths.png?v=tutorial" width="960" height="558" loading="lazy" decoding="async" alt="静态页面通过 GitHub Pages 发布，Worker 代码通过 Wrangler 部署，动态站的文章内容写入 D1。">
+  <figcaption>图 3　静态页面、Worker 代码和文章数据各有对应的发布位置。<a href="/images/cloudflare-blog/publish-paths.png?v=tutorial" aria-label="查看博客内容发布插画大图">查看大图</a></figcaption>
 </figure>
 
-后来我又写了一个发文脚本。现在只要用 Markdown 写一份稿子，就能预览文章，再用一条命令更新主站和动态版。脚本会替我做图里的发布操作，也会自动更新首页的文章列表和 RSS 订阅。
-
-
-如果我从零再做一次，还是会先放一个 `index.html`，用平台给的测试地址把它打开，再配自己的域名。等我真的想让网页搜文章、读数据时，再接上 Worker 和 D1。这样每做完一步，都能打开一个页面看看自己刚完成了什么。
+两站共用文章时，可以用 Markdown（一种纯文本写作格式）维护一份稿件。本文示例项目提供本地发文脚本，可预览文章，并将同一份稿件发布到 GitHub Pages 和 Worker，同时更新首页、文章归档和 RSS 订阅。 [项目的发文操作说明](https://github.com/MushokuK1ka/MushokuK1ka.github.io/blob/agent/five-switchable-themes/README.md)
